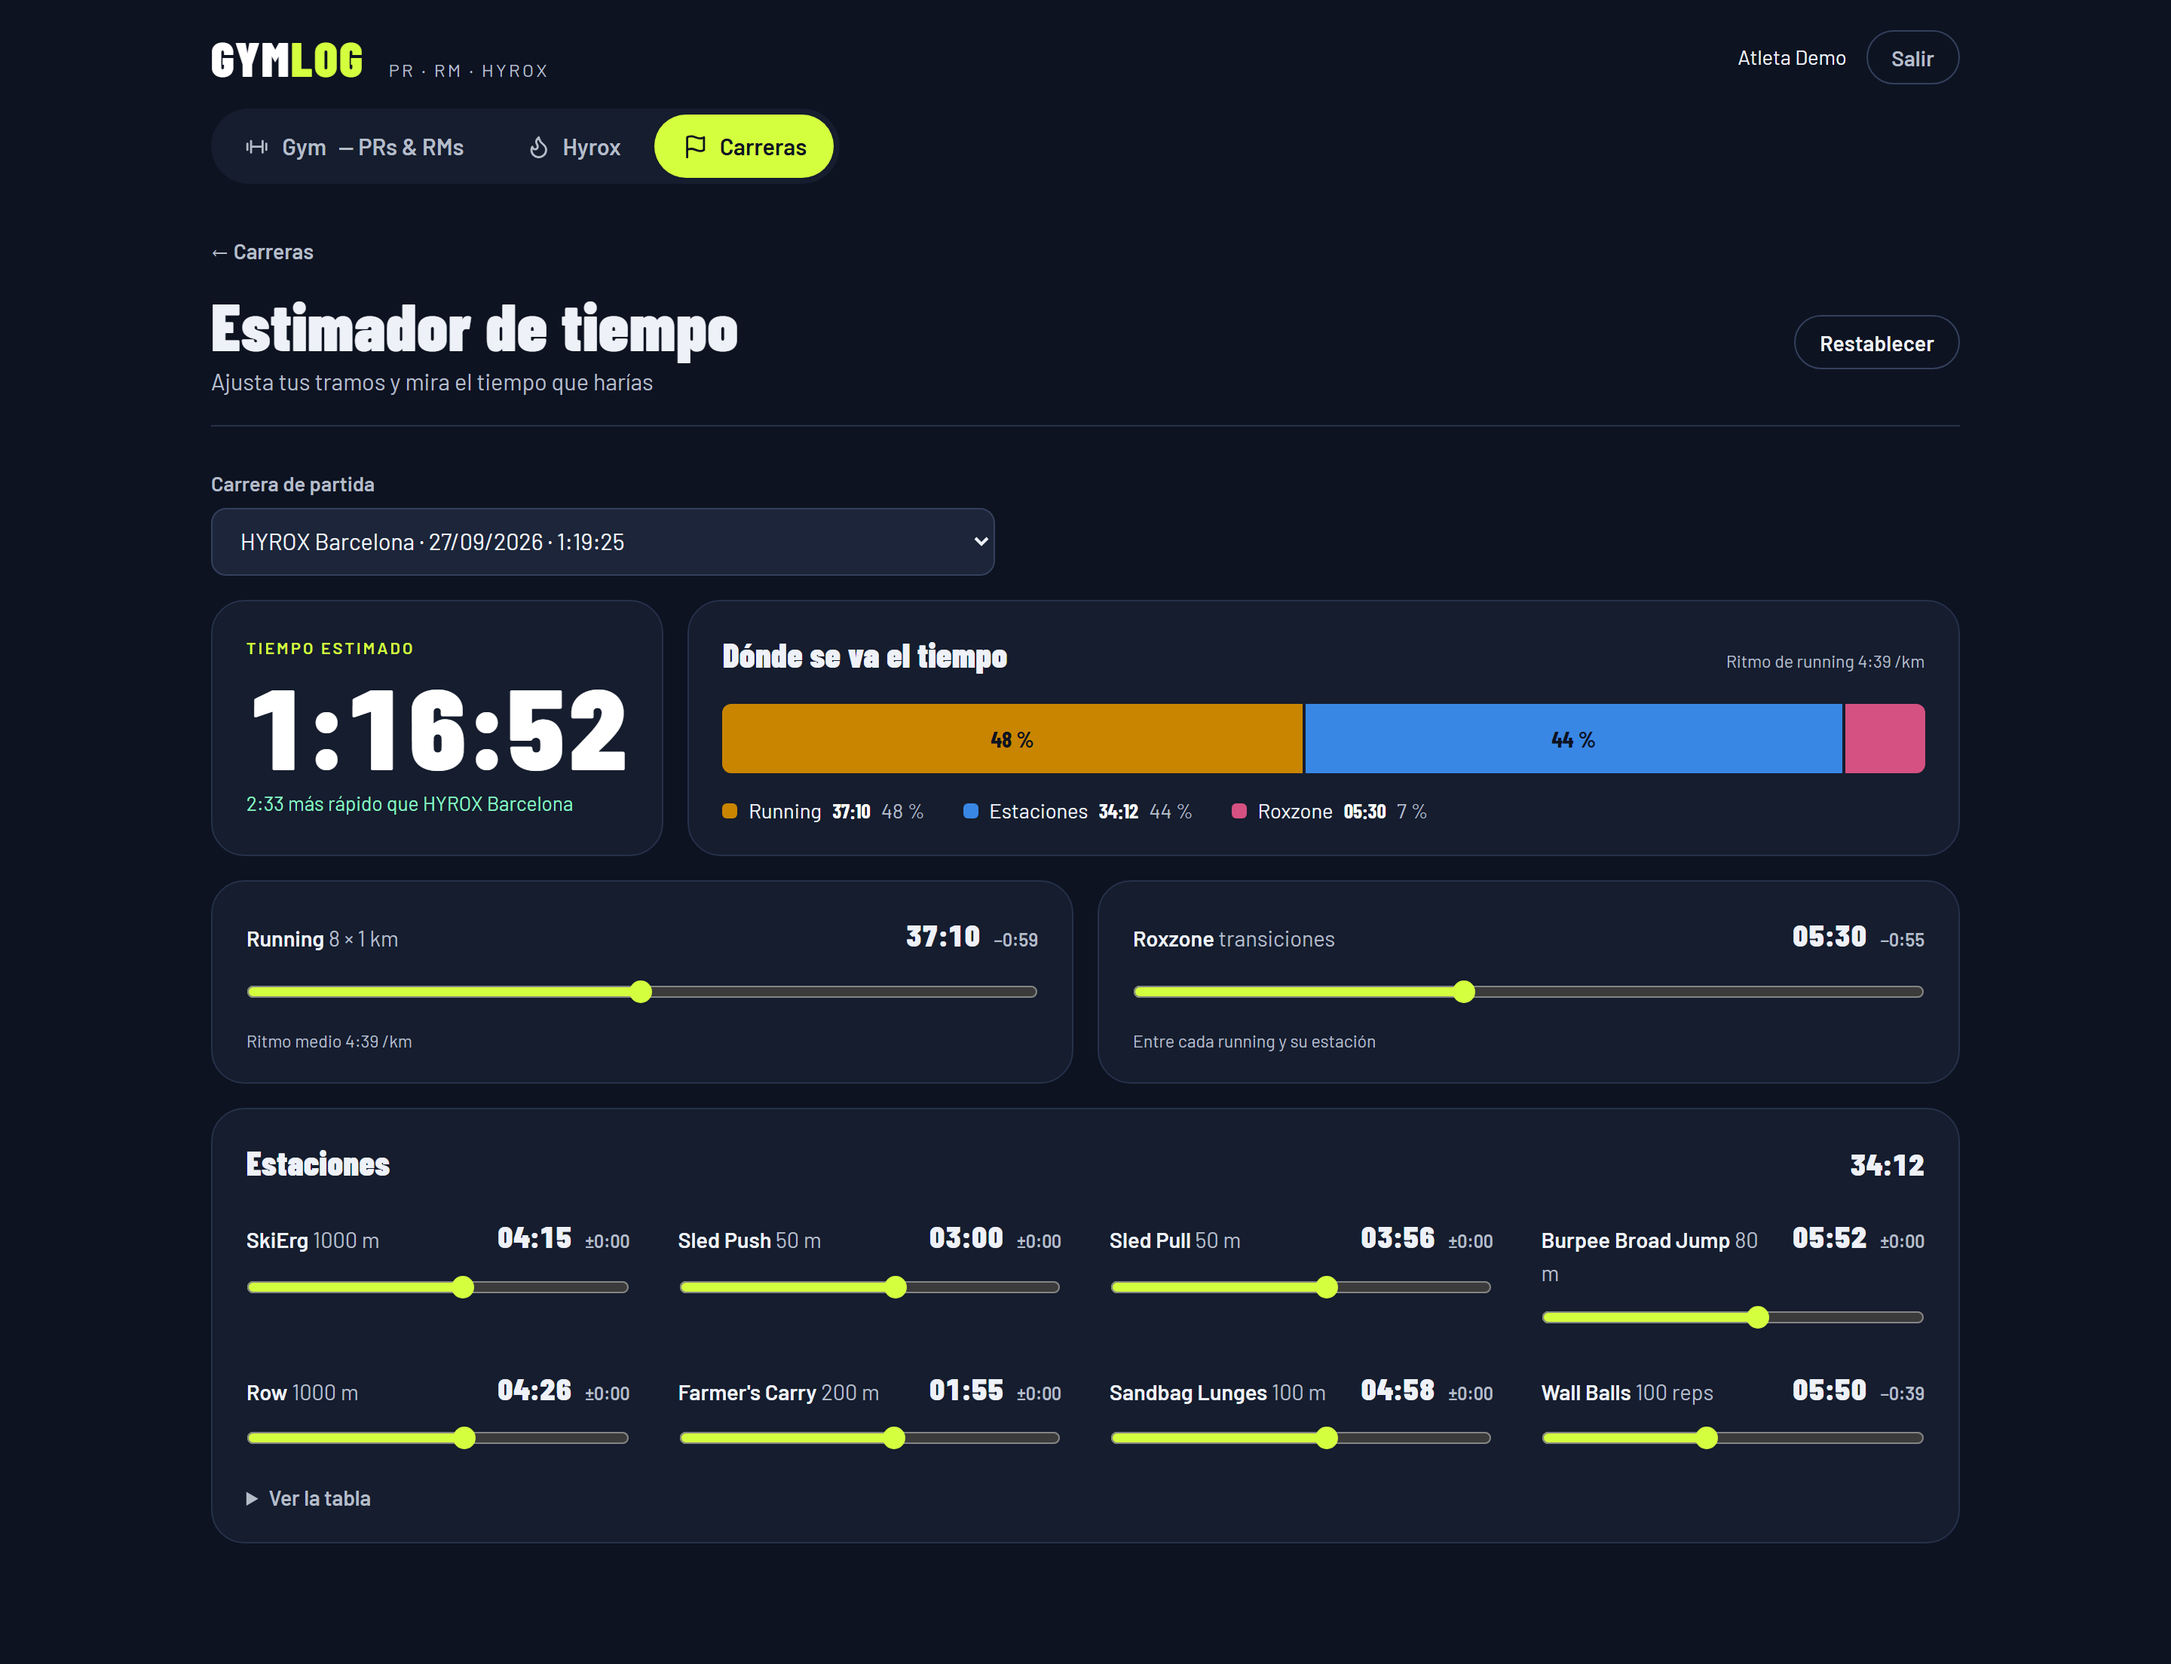
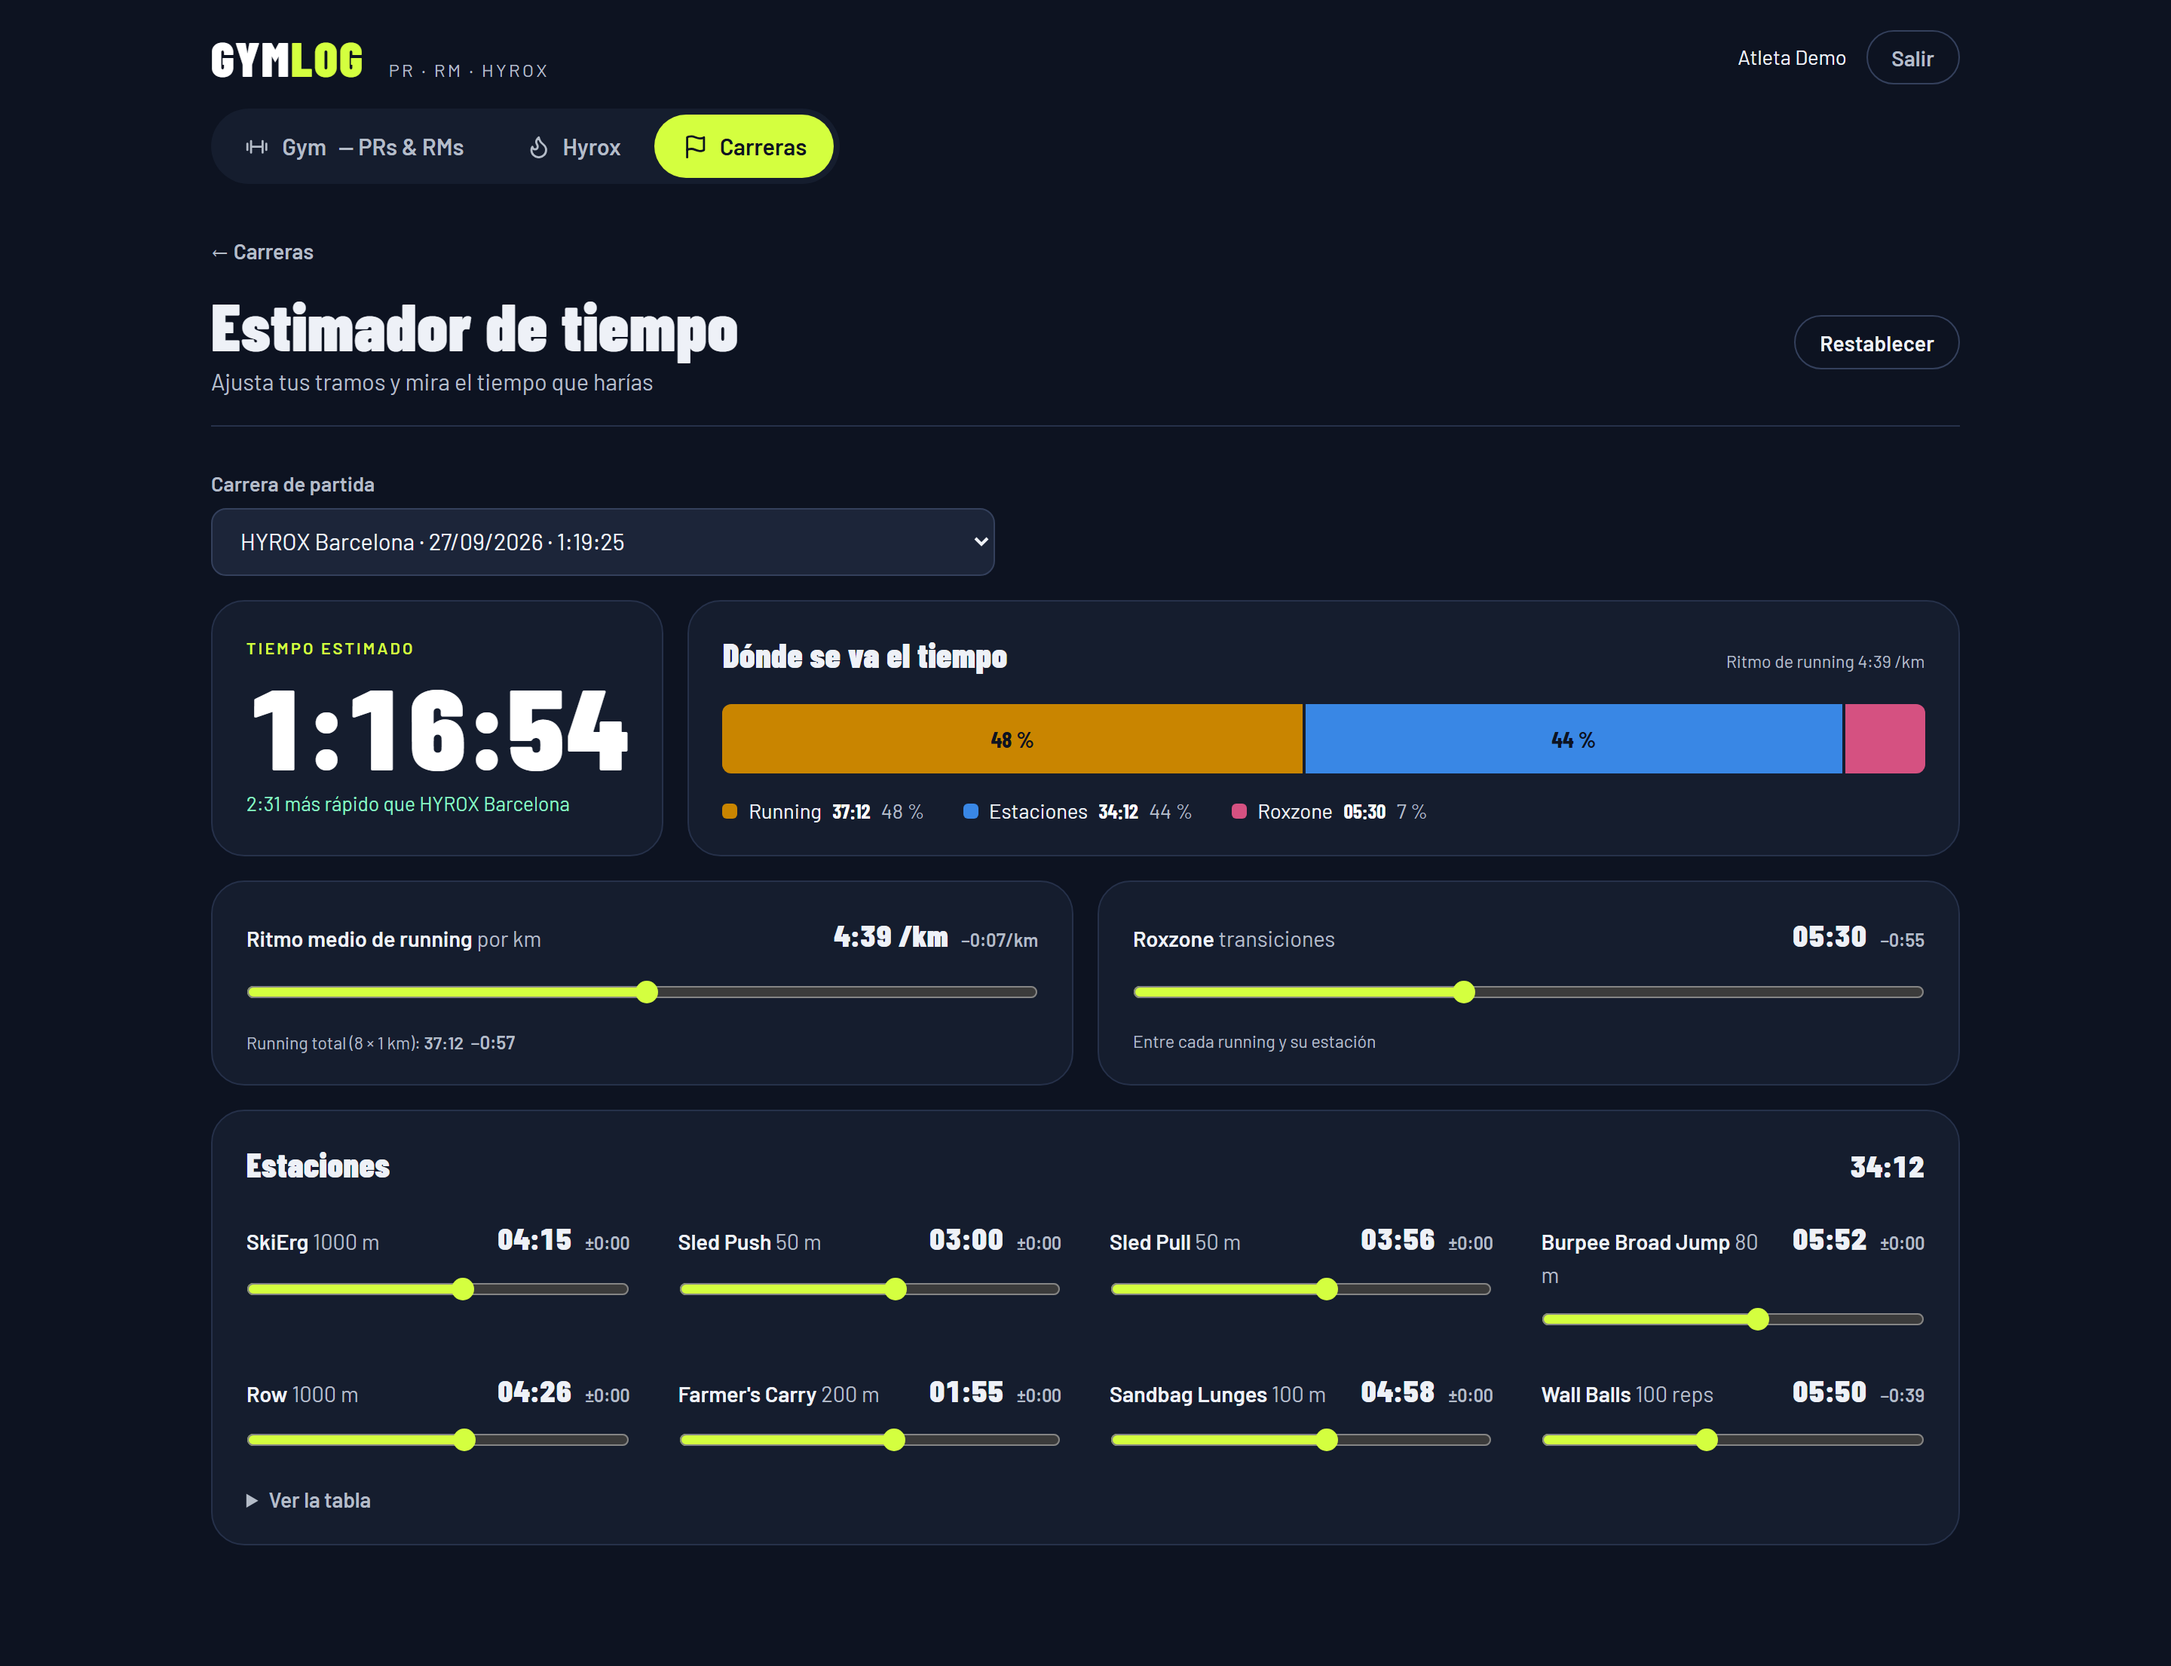
Estimador: el deslizador de running ajusta el ritmo medio por km y debajo se ve el running total

diff --git a/src/app/features/carreras/estimator.component.spec.ts b/src/app/features/carreras/estimator.component.spec.ts
@@ -23,6 +23,9 @@ describe('EstimatorComponent', () => {
   afterEach(teardownApp);
 
   const total = () => textOf(el.querySelector('#est-total'));
+  /** Running total y su diferencia, debajo del deslizador de ritmo */
+  const runTotal = () =>
+    ['strong', '.slider-delta'].map((q) => textOf(el.querySelector(`#est-run-total ${q}`)));
   const slide = (selector: string, value: number) => {
     const input = el.querySelector<HTMLInputElement>(selector)!;
     input.value = String(value);
@@ -34,20 +37,23 @@ describe('EstimatorComponent', () => {
     expect(el.querySelector<HTMLSelectElement>('#est-base')!.value).toBe('c2');
     expect(total()).toBe('1:21:15');
     expect(textOf(el.querySelector('#est-delta'))).toBe('Igual que HYROX Madrid');
-    expect(el.querySelector<HTMLInputElement>('#est-run')!.value).toBe('2333');
+    // El deslizador de running es el ritmo medio por km: 2333 s / 8 ≈ 292 s (4:52 /km)
+    expect(el.querySelector<HTMLInputElement>('#est-run')!.value).toBe('292');
+    expect(runTotal()).toEqual(['38:53', '±0:00']);
     expect(el.querySelectorAll('.est-station input')).toHaveLength(8);
     expect(el.ownerDocument.title).toBe('Estimador de tiempo · GYM LOG');
   });
 
   it('the sliders change the estimated time', () => {
-    slide('#est-run', 2300);
-    expect(total()).toBe('1:20:42');
+    slide('#est-run', 288); // 4:48 /km → 8 × 288 = 2304 s de running
+    expect(total()).toBe('1:20:46');
+    expect(runTotal()).toEqual(['38:24', '−0:29']);
     slide('#est-rox', 300);
     slide('#est-st-7', 360);
-    // 4875 − 33 (running) − 98 (Roxzone) − 41 (Wall Balls) = 4703
-    expect(total()).toBe('1:18:23');
+    // 4875 − 29 (running) − 98 (Roxzone) − 41 (Wall Balls) = 4707
+    expect(total()).toBe('1:18:27');
     const delta = el.querySelector('#est-delta')!;
-    expect(textOf(delta)).toBe('2:52 más rápido que HYROX Madrid');
+    expect(textOf(delta)).toBe('2:48 más rápido que HYROX Madrid');
     expect(delta.classList).toContain('hero-delta--good');
     const rows = [...el.querySelectorAll('#est-table tbody tr')].map((r) => rowText(r));
     expect(rows.at(-1)).toBe('Roxzone 06:38 05:00 −1:38');

diff --git a/src/app/features/carreras/estimator.component.html b/src/app/features/carreras/estimator.component.html
@@ -48,27 +48,35 @@
     <div class="chart-grid">
       <div class="chart-card est-slider">
         <div class="slider-head">
-          <label for="est-run">Running <span class="muted">8 × 1 km</span></label>
+          <label for="est-run">Ritmo medio de running <span class="muted">por km</span></label>
           <span class="slider-value"
-            >{{ e.run | dur }}
+            >{{ pace() | pace }}
             <span
               class="slider-delta"
-              [class.delta-good]="runDelta() < 0"
-              [class.delta-bad]="runDelta() > 0"
-              >{{ runDelta() | delta }}</span
+              [class.delta-good]="paceDelta() < 0"
+              [class.delta-bad]="paceDelta() > 0"
+              >{{ paceDelta() | delta }}/km</span
             ></span
           >
         </div>
         <input
           id="est-run"
           type="range"
-          [min]="runRange().min"
-          [max]="runRange().max"
-          [step]="runRange().step"
-          [value]="e.run"
+          [min]="paceRange().min"
+          [max]="paceRange().max"
+          [step]="paceRange().step"
+          [value]="pace()"
           (input)="setRun($event)"
         />
-        <span class="chart-note">Ritmo medio {{ e.pace | pace }}</span>
+        <span class="chart-note" id="est-run-total"
+          >Running total (8 × 1 km): <strong>{{ e.run | dur }}</strong>
+          <span
+            class="slider-delta"
+            [class.delta-good]="runDelta() < 0"
+            [class.delta-bad]="runDelta() > 0"
+            >{{ runDelta() | delta }}</span
+          ></span
+        >
       </div>
       <div class="chart-card est-slider">
         <div class="slider-head">

diff --git a/src/app/features/carreras/estimator.component.ts b/src/app/features/carreras/estimator.component.ts
@@ -18,7 +18,7 @@ import {
   valuesFromRace,
 } from '../../domain/estimator';
 import { fmtDuration, fmtGap } from '../../domain/format';
-import { RACE_STATIONS, sortRaces } from '../../domain/race';
+import { RACE_LAPS, RACE_STATIONS, sortRaces } from '../../domain/race';
 import { EmptyStateComponent } from '../../shared/empty-state.component';
 import { FORMAT_PIPES } from '../../shared/format.pipes';
 import { BarPart, SegmentedBarComponent } from '../../shared/segmented-bar.component';
@@ -87,9 +87,11 @@ export class EstimatorComponent {
     ];
   });
 
-  protected readonly runRange = computed(() =>
-    sliderRange(this.baseValues()?.run ?? 0, RANGE_FACTORS.run),
-  );
+  /** El running se ajusta por ritmo medio (s/km); el total es ritmo × 8 */
+  private readonly basePace = computed(() => Math.round((this.baseValues()?.run ?? 0) / RACE_LAPS));
+  protected readonly pace = computed(() => Math.round((this.values()?.run ?? 0) / RACE_LAPS));
+  protected readonly paceDelta = computed(() => this.pace() - this.basePace());
+  protected readonly paceRange = computed(() => sliderRange(this.basePace(), RANGE_FACTORS.run));
   protected readonly roxRange = computed(() =>
     sliderRange(this.baseValues()?.rox ?? 0, RANGE_FACTORS.rox),
   );
@@ -122,7 +124,7 @@ export class EstimatorComponent {
   }
 
   protected setRun(e: Event): void {
-    const run = this.num(e);
+    const run = this.num(e) * RACE_LAPS;
     this.values.update((v) => (v ? { ...v, run } : v));
   }
 

diff --git a/e2e/carreras.spec.ts b/e2e/carreras.spec.ts
@@ -87,10 +87,11 @@ test.describe('Carreras', () => {
     await page.getByRole('link', { name: 'Estimador' }).click();
     await expect(page).toHaveURL(/\/carreras\/estimador$/);
     await expect(page.locator('#est-total')).toHaveText('1:21:15');
-    await page.locator('#est-run').fill('2300');
-    await expect(page.locator('#est-total')).toHaveText('1:20:42');
+    await page.locator('#est-run').fill('288');
+    await expect(page.locator('#est-total')).toHaveText('1:20:46');
+    await expect(page.locator('#est-run-total')).toContainText('38:24');
     await page.locator('#est-rox').fill('300');
-    await expect(page.locator('#est-delta')).toHaveText('2:11 más rápido que HYROX Madrid');
+    await expect(page.locator('#est-delta')).toHaveText('2:07 más rápido que HYROX Madrid');
     await page.getByRole('button', { name: 'Restablecer' }).click();
     await expect(page.locator('#est-total')).toHaveText('1:21:15');
 

diff --git a/docs/capturas/capturas.spec.ts b/docs/capturas/capturas.spec.ts
@@ -258,7 +258,7 @@ test.describe('README · escritorio', () => {
 
     // Estimador: un par de ajustes sobre la última carrera
     await page.getByRole('link', { name: 'Estimador' }).click();
-    await page.locator('#est-run').fill('2230');
+    await page.locator('#est-run').fill('279');
     await page.locator('#est-rox').fill('330');
     await page.locator('#est-st-7').fill('350');
     await top(page);
